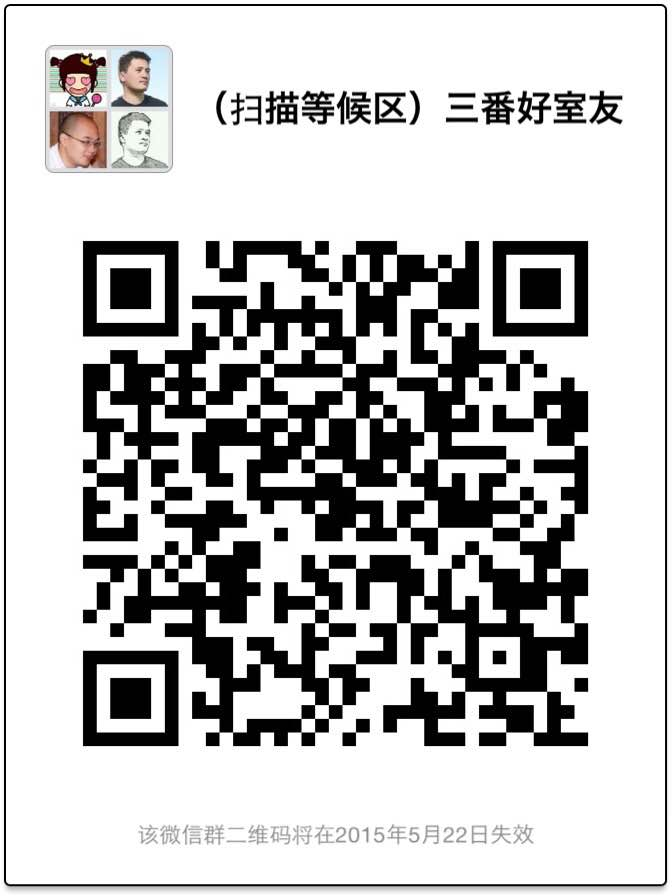
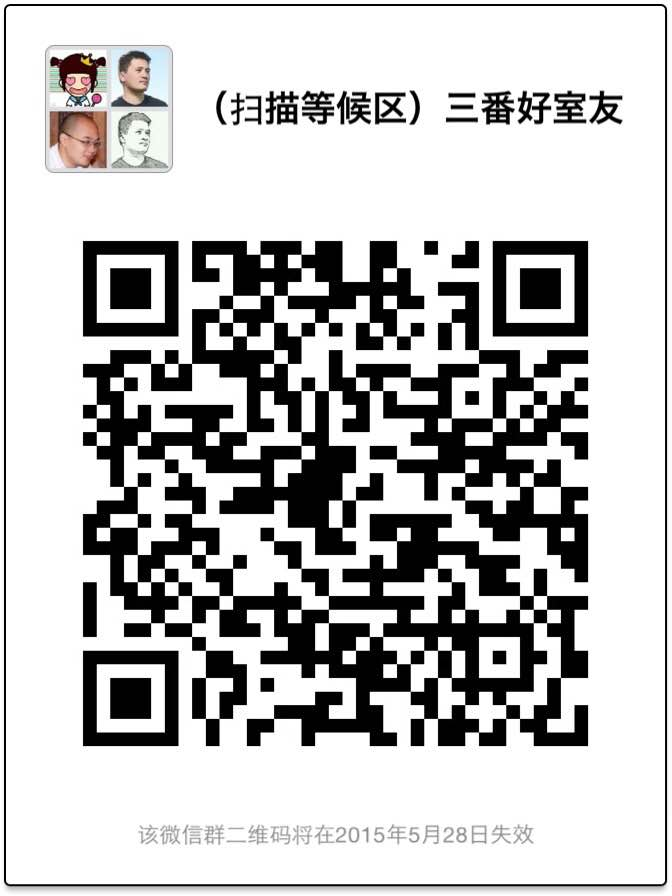
Update qrcode and dz

Changed region(s): [[0.125, 0.25, 0.875, 0.8438]]

diff --git a/index.html b/index.html
@@ -63,6 +63,9 @@
         <div class="col-xs-12 col-sm-6 col-sm-offset-3 col-md-4 col-md-offset-4 col-lg-4 col-lg-offset-4"
              id="wechat_qr_code">
             <div class="wechat_qr_code">
+                <img src="img/wechat-group-dz.jpg" style="width:100%;" alt="短租好室友"/>
+            </div>
+            <div class="wechat_qr_code">
                 <img src="img/wechat-group-nw.jpg" style="width:100%;" alt="南湾好室友（等候群-主群满100了）"/>
             </div>
             <div class="wechat_qr_code">
